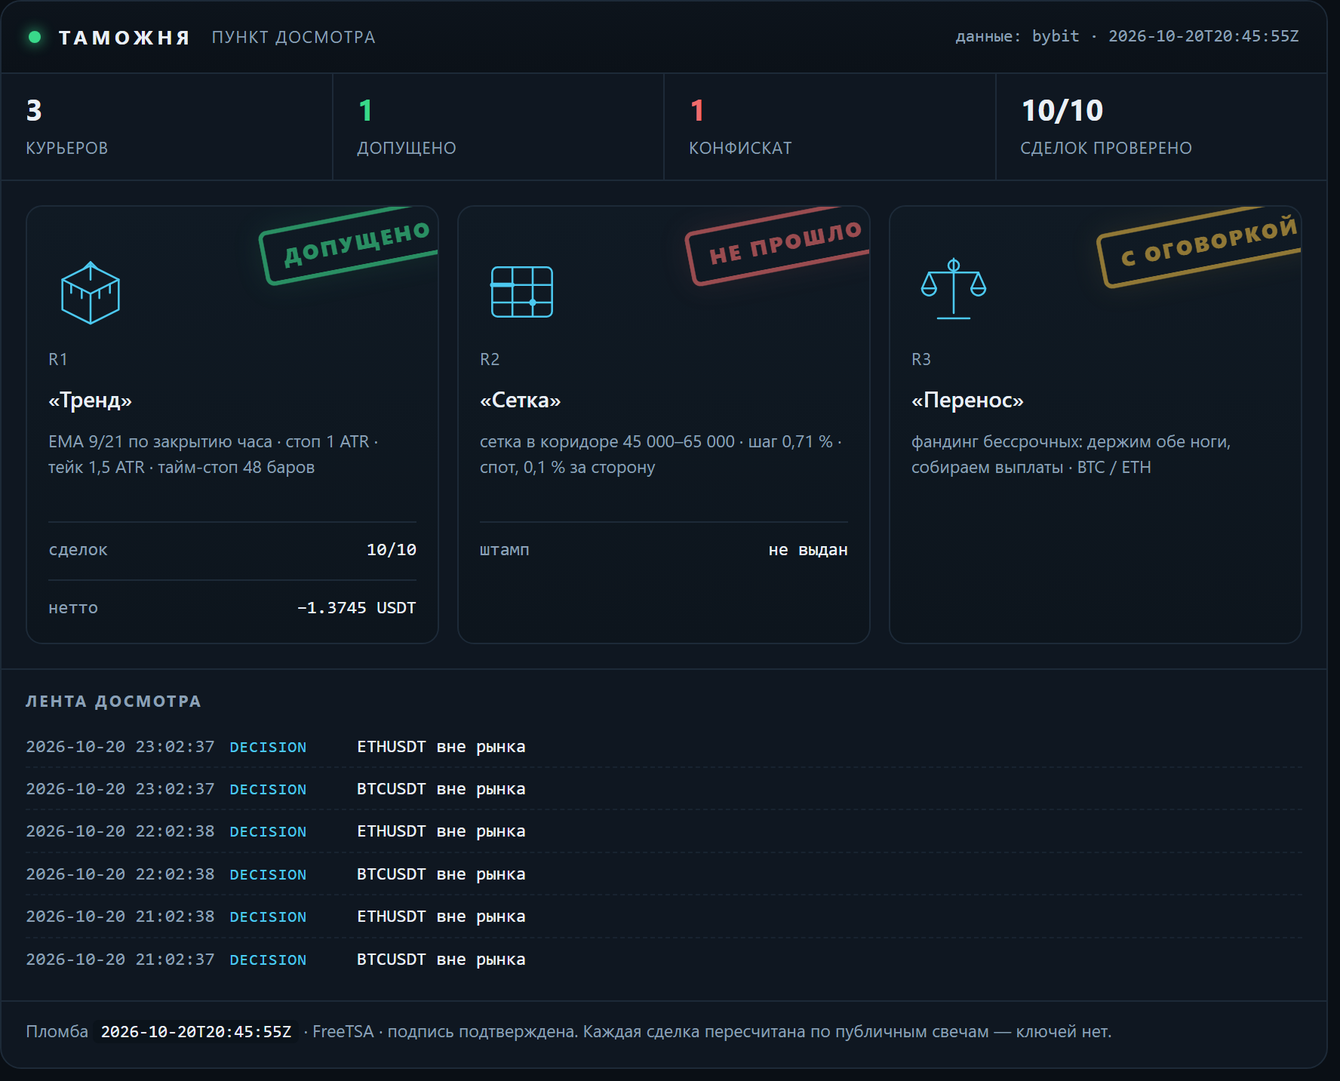
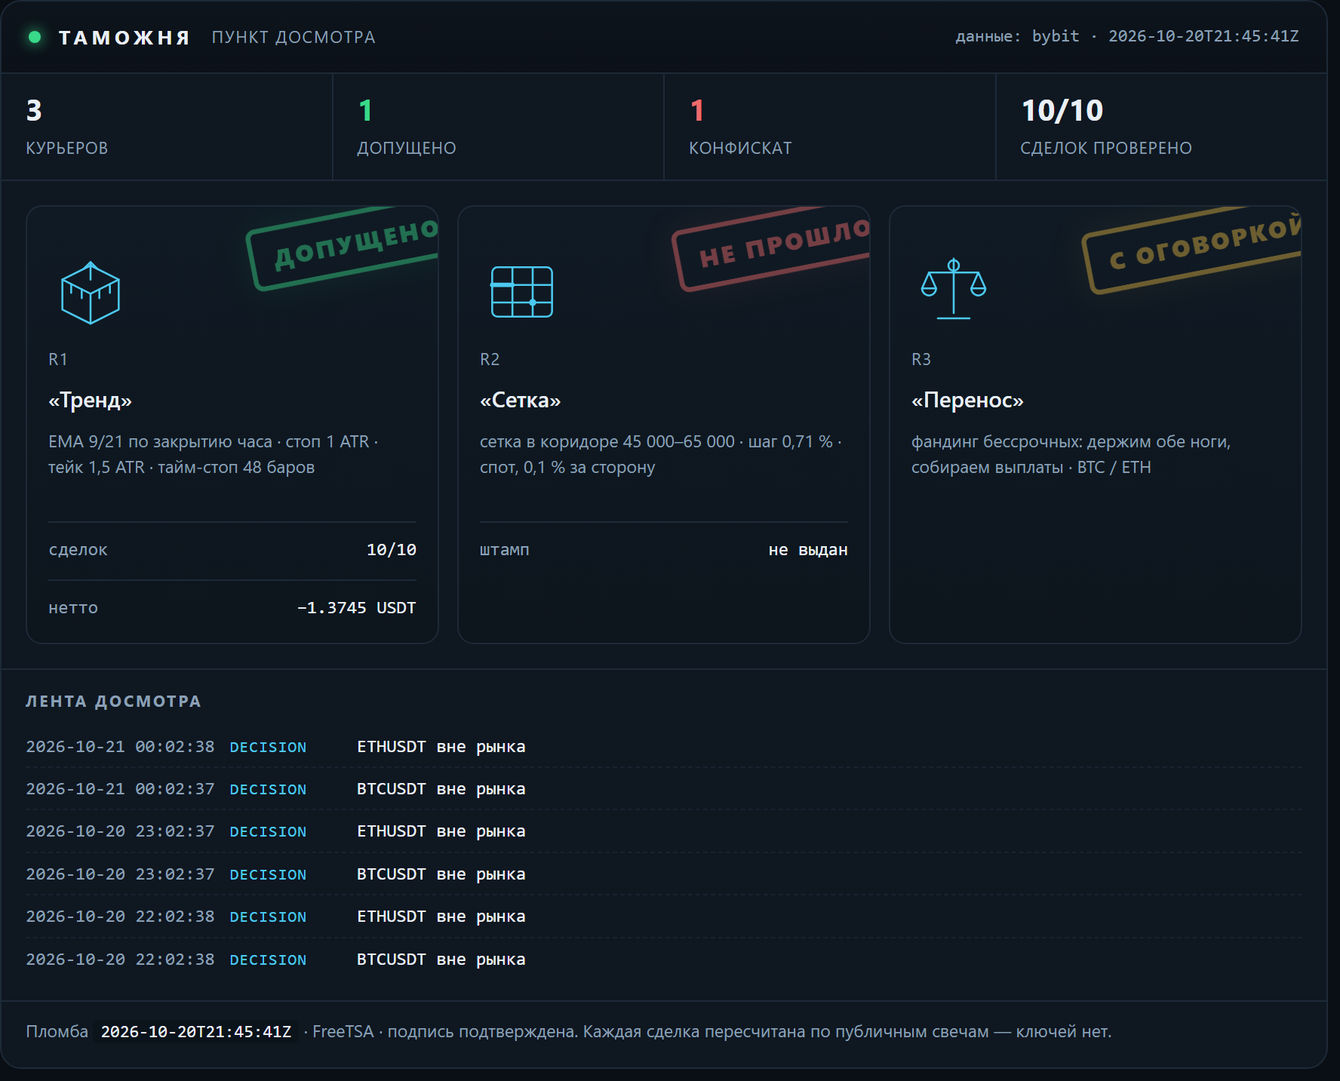
lab: таможня — свежие числа досмотра

Changed region(s): [[0.8052, 0.1842, 0.991, 0.2763], [0.4955, 0.1842, 0.6503, 0.2763], [0.1858, 0.1842, 0.3407, 0.2763]]

diff --git a/docs/customs.html b/docs/customs.html
@@ -16,7 +16,7 @@
   <h1><a href="index.html">Gramwright Lab</a></h1>
   <p>Журнал проверки торговых гипотез: что проверяли, что вышло по факту, сколько съели издержки. Числа берутся из журнала стенда. Не инвестиционная рекомендация.</p>
 </header>
-<h1>Таможня</h1><p class="intro">Пункт досмотра заявленных результатов. Стратегии приезжают с грузом обещаний, и каждая проходит проверку по публичным данным биржи: цены существуют, комиссии по тарифу, нетто сходится. Что прошло — получает штамп. Что не прошло — в конфискат, с причиной. Штамп означает «записи подлинные», а не «стратегия прибыльна».</p><p><img src="img/customs.png" alt="Терминал досмотра: три курьера, штампы, лента событий" style="width:100%;height:auto;border:1px solid var(--line);border-radius:10px"></p><p class="c-note">Сверху — тот же терминал, что собирается из журналов: счётчики, эмблемы курьеров, штампы и лента последних событий. Ниже — то же самое текстом, чтобы читалось с телефона и индексировалось поиском.</p><article><h2>R1 «Тренд» <span class="verdict">— <span class="c-ok">допущено</span></span></h2><p><strong>Правило:</strong> EMA 9/21 по закрытию часа · стоп 1 ATR · тейк 1,5 ATR · тайм-стоп 48 баров</p><p><strong>Декларация:</strong> Заявлено до прогона: держать 30 сделок, лимит нотионала 10 % от счёта, стоп дня −1 %. Прибыль не заявлялась — это важно: курьер не обещал доход.</p><p><strong>Проверено по публичным свечам, без ключей:</strong> 10 из 10 сделок. Сумма нетто −1.3745 USDT.</p><ul class="c-chk"><li class="y">BTCUSDT: нетто −0.8746 USDT · комиссии 0.0901 · проверено · с поправкой</li><li class="y">BTCUSDT: нетто −0.5441 USDT · комиссии 0.0896 · проверено</li><li class="y">ETHUSDT: нетто −0.2253 USDT · комиссии 0.0266 · проверено</li><li class="y">ETHUSDT: нетто −0.1513 USDT · комиссии 0.0265 · проверено</li><li class="y">ETHUSDT: нетто +0.1984 USDT · комиссии 0.0262 · проверено</li><li class="y">ETHUSDT: нетто +0.1617 USDT · комиссии 0.0260 · проверено</li><li class="y">ETHUSDT: нетто +0.2645 USDT · комиссии 0.0263 · проверено</li><li class="y">BTCUSDT: нетто +0.6246 USDT · комиссии 0.0897 · проверено</li><li class="y">BTCUSDT: нетто −0.5881 USDT · комиссии 0.0910 · проверено</li><li class="y">ETHUSDT: нетто −0.2403 USDT · комиссии 0.0270 · проверено</li></ul><p class="tags">журнал sha256 d530968367e1f18c… · проверяльщик verify-1</p><p class="c-note">Штамп означает: записи подлинные, а не что стратегия прибыльна. Курьер в минусе, и минус тоже стоит на штампе — иначе это была бы не проверка, а реклама.</p><p class="tags">источник: verify-report.json</p></article><article><h2>R2 «Сетка» <span class="verdict">— <span class="c-bad">не прошло</span></span></h2><p><strong>Правило:</strong> сетка в коридоре 45 000–65 000 · шаг 0,71 % · спот, 0,1 % за сторону</p><p><strong>Декларация:</strong> Заявлено: «44 % урожая уходит бирже в виде комиссий». Кроме того — перевес над простым владением монетой.</p><p><strong>Что сошлось:</strong></p><ul class="c-chk"><li class="y">сами числа пересчитаны и воспроизводятся: коридор 45–65k был активен 23 % всей истории и 28 % последних двух лет</li></ul><p><strong>Что не сошлось:</strong></p><ul class="c-chk"><li class="n">44 % не подтвердилось: при шаге 0,71 % и тарифе 0,1 % комиссия съедает 28,3 % шага. Чтобы получить 44 %, нужен шаг 0,45 % — это около 80 уровней, а не 50</li><li class="n">от урожая доля комиссий 85,5 % за всю историю и 49,6 % за последние два года — тоже не 44 %</li><li class="n">перевес над владением посчитан на тарифе 0,055 %: при нём +1,32 п. п., на розничном 0,1 % — −0,72 п. п. То есть перевес исчезает</li><li class="n">семилетний тест стартовал в сентябре 2019 при биткоине около 10 000 — ниже коридора. Он говорит, что фиксированный коридор не подходит для периода, а не что сетка отстаёт</li></ul><p class="tags">источник: lab_grid.py, пересчёт 17.10.2026</p></article><article><h2>R3 «Перенос» <span class="verdict">— <span class="c-warn">с оговоркой</span></span></h2><p><strong>Правило:</strong> фандинг бессрочных: держим обе ноги, собираем выплаты · BTC / ETH</p><p><strong>Декларация:</strong> Заявлено: около 11,9 % в год от выплат фандинга при просадке выплатной кривой меньше 2 %.</p><p><strong>Что сошлось:</strong></p><ul class="c-chk"><li class="y">выплаты взяты из публичной истории биржи, ключей не нужно: BTC — 7 190 выплат с 25.03.2020, ETH — 6 561 с 21.10.2020</li><li class="y">сумма сходится: +83,4 % и +83,2 % за 6,6 и 6,0 года — те самые ~11,9 % в год</li><li class="y">худшая просадка выплатной кривой: −1,65 % и −1,97 %</li></ul><p><strong>Что не сошлось:</strong></p><ul class="c-chk"><li class="n">оговорка 1: премию сжали — 2021 год дал +38,3 %, 2026 — +1,96 %. Прошлое не повторяется</li><li class="n">оговорка 2: вход-выход стоит около 0,31 %, капитала нужно 1,2 от нотионала, текущий базис −0,082 % против входа</li><li class="n">оговорка 3: риск площадки. История FTX в этой же таблице выглядела так же прилично</li></ul><p class="tags">источник: публичная история фандинга Bybit, замер 17.10.2026</p></article><div class="c-conf"><h3>Конфискат</h3><p><strong>«Сетка»: заявленные 44 % комиссий не подтвердились.</strong> Досмотр показал 28,3 % от шага и 85,5 % от урожая — цифра хуже заявленной по форме, но лучше по смыслу: сетку убивает не размер шага, а то, что урожай почти весь уходит в комиссии. Это и вышло в выпуск — с поправкой, а не с красивой цифрой.</p></div><p class="c-note">Пломба: <code>2026-10-20T20:45:55Z</code> · нотариус FreeTSA · Oct 20 20:45:55 2026 GMT · подпись подтверждена. Манифест скрепляет отчёт проверки, журнал сделок и декларации курьеров: подменишь любую цифру — пломба перестанет сходиться.</p><p class="c-note">Досмотр идёт по публичным минутным свечам и публичной истории фандинга — ключей у проверяющего нет, и он может повторить проверку сам.</p><p class="c-note">Контент образовательный, не является инвестиционной рекомендацией. Торговля связана с риском потери капитала.</p>
+<h1>Таможня</h1><p class="intro">Пункт досмотра заявленных результатов. Стратегии приезжают с грузом обещаний, и каждая проходит проверку по публичным данным биржи: цены существуют, комиссии по тарифу, нетто сходится. Что прошло — получает штамп. Что не прошло — в конфискат, с причиной. Штамп означает «записи подлинные», а не «стратегия прибыльна».</p><p><img src="img/customs.png" alt="Терминал досмотра: три курьера, штампы, лента событий" style="width:100%;height:auto;border:1px solid var(--line);border-radius:10px"></p><p class="c-note">Сверху — тот же терминал, что собирается из журналов: счётчики, эмблемы курьеров, штампы и лента последних событий. Ниже — то же самое текстом, чтобы читалось с телефона и индексировалось поиском.</p><article><h2>R1 «Тренд» <span class="verdict">— <span class="c-ok">допущено</span></span></h2><p><strong>Правило:</strong> EMA 9/21 по закрытию часа · стоп 1 ATR · тейк 1,5 ATR · тайм-стоп 48 баров</p><p><strong>Декларация:</strong> Заявлено до прогона: держать 30 сделок, лимит нотионала 10 % от счёта, стоп дня −1 %. Прибыль не заявлялась — это важно: курьер не обещал доход.</p><p><strong>Проверено по публичным свечам, без ключей:</strong> 10 из 10 сделок. Сумма нетто −1.3745 USDT.</p><ul class="c-chk"><li class="y">BTCUSDT: нетто −0.8746 USDT · комиссии 0.0901 · проверено · с поправкой</li><li class="y">BTCUSDT: нетто −0.5441 USDT · комиссии 0.0896 · проверено</li><li class="y">ETHUSDT: нетто −0.2253 USDT · комиссии 0.0266 · проверено</li><li class="y">ETHUSDT: нетто −0.1513 USDT · комиссии 0.0265 · проверено</li><li class="y">ETHUSDT: нетто +0.1984 USDT · комиссии 0.0262 · проверено</li><li class="y">ETHUSDT: нетто +0.1617 USDT · комиссии 0.0260 · проверено</li><li class="y">ETHUSDT: нетто +0.2645 USDT · комиссии 0.0263 · проверено</li><li class="y">BTCUSDT: нетто +0.6246 USDT · комиссии 0.0897 · проверено</li><li class="y">BTCUSDT: нетто −0.5881 USDT · комиссии 0.0910 · проверено</li><li class="y">ETHUSDT: нетто −0.2403 USDT · комиссии 0.0270 · проверено</li></ul><p class="tags">журнал sha256 b13950be61773329… · проверяльщик verify-1</p><p class="c-note">Штамп означает: записи подлинные, а не что стратегия прибыльна. Курьер в минусе, и минус тоже стоит на штампе — иначе это была бы не проверка, а реклама.</p><p class="tags">источник: verify-report.json</p></article><article><h2>R2 «Сетка» <span class="verdict">— <span class="c-bad">не прошло</span></span></h2><p><strong>Правило:</strong> сетка в коридоре 45 000–65 000 · шаг 0,71 % · спот, 0,1 % за сторону</p><p><strong>Декларация:</strong> Заявлено: «44 % урожая уходит бирже в виде комиссий». Кроме того — перевес над простым владением монетой.</p><p><strong>Что сошлось:</strong></p><ul class="c-chk"><li class="y">сами числа пересчитаны и воспроизводятся: коридор 45–65k был активен 23 % всей истории и 28 % последних двух лет</li></ul><p><strong>Что не сошлось:</strong></p><ul class="c-chk"><li class="n">44 % не подтвердилось: при шаге 0,71 % и тарифе 0,1 % комиссия съедает 28,3 % шага. Чтобы получить 44 %, нужен шаг 0,45 % — это около 80 уровней, а не 50</li><li class="n">от урожая доля комиссий 85,5 % за всю историю и 49,6 % за последние два года — тоже не 44 %</li><li class="n">перевес над владением посчитан на тарифе 0,055 %: при нём +1,32 п. п., на розничном 0,1 % — −0,72 п. п. То есть перевес исчезает</li><li class="n">семилетний тест стартовал в сентябре 2019 при биткоине около 10 000 — ниже коридора. Он говорит, что фиксированный коридор не подходит для периода, а не что сетка отстаёт</li></ul><p class="tags">источник: lab_grid.py, пересчёт 17.10.2026</p></article><article><h2>R3 «Перенос» <span class="verdict">— <span class="c-warn">с оговоркой</span></span></h2><p><strong>Правило:</strong> фандинг бессрочных: держим обе ноги, собираем выплаты · BTC / ETH</p><p><strong>Декларация:</strong> Заявлено: около 11,9 % в год от выплат фандинга при просадке выплатной кривой меньше 2 %.</p><p><strong>Что сошлось:</strong></p><ul class="c-chk"><li class="y">выплаты взяты из публичной истории биржи, ключей не нужно: BTC — 7 190 выплат с 25.03.2020, ETH — 6 561 с 21.10.2020</li><li class="y">сумма сходится: +83,4 % и +83,2 % за 6,6 и 6,0 года — те самые ~11,9 % в год</li><li class="y">худшая просадка выплатной кривой: −1,65 % и −1,97 %</li></ul><p><strong>Что не сошлось:</strong></p><ul class="c-chk"><li class="n">оговорка 1: премию сжали — 2021 год дал +38,3 %, 2026 — +1,96 %. Прошлое не повторяется</li><li class="n">оговорка 2: вход-выход стоит около 0,31 %, капитала нужно 1,2 от нотионала, текущий базис −0,082 % против входа</li><li class="n">оговорка 3: риск площадки. История FTX в этой же таблице выглядела так же прилично</li></ul><p class="tags">источник: публичная история фандинга Bybit, замер 17.10.2026</p></article><div class="c-conf"><h3>Конфискат</h3><p><strong>«Сетка»: заявленные 44 % комиссий не подтвердились.</strong> Досмотр показал 28,3 % от шага и 85,5 % от урожая — цифра хуже заявленной по форме, но лучше по смыслу: сетку убивает не размер шага, а то, что урожай почти весь уходит в комиссии. Это и вышло в выпуск — с поправкой, а не с красивой цифрой.</p></div><p class="c-note">Пломба: <code>2026-10-20T21:45:41Z</code> · нотариус FreeTSA · Oct 20 21:45:41 2026 GMT · подпись подтверждена. Манифест скрепляет отчёт проверки, журнал сделок и декларации курьеров: подменишь любую цифру — пломба перестанет сходиться.</p><p class="c-note">Досмотр идёт по публичным минутным свечам и публичной истории фандинга — ключей у проверяющего нет, и он может повторить проверку сам.</p><p class="c-note">Контент образовательный, не является инвестиционной рекомендацией. Торговля связана с риском потери капитала.</p>
 <footer class="site">
   Код стенда и аудитора: <a href="https://github.com/XSlaidx/truth-engine">XSlaidx/truth-engine</a>
   &middot; <a href="graveyard.html">кладбище правил</a>
